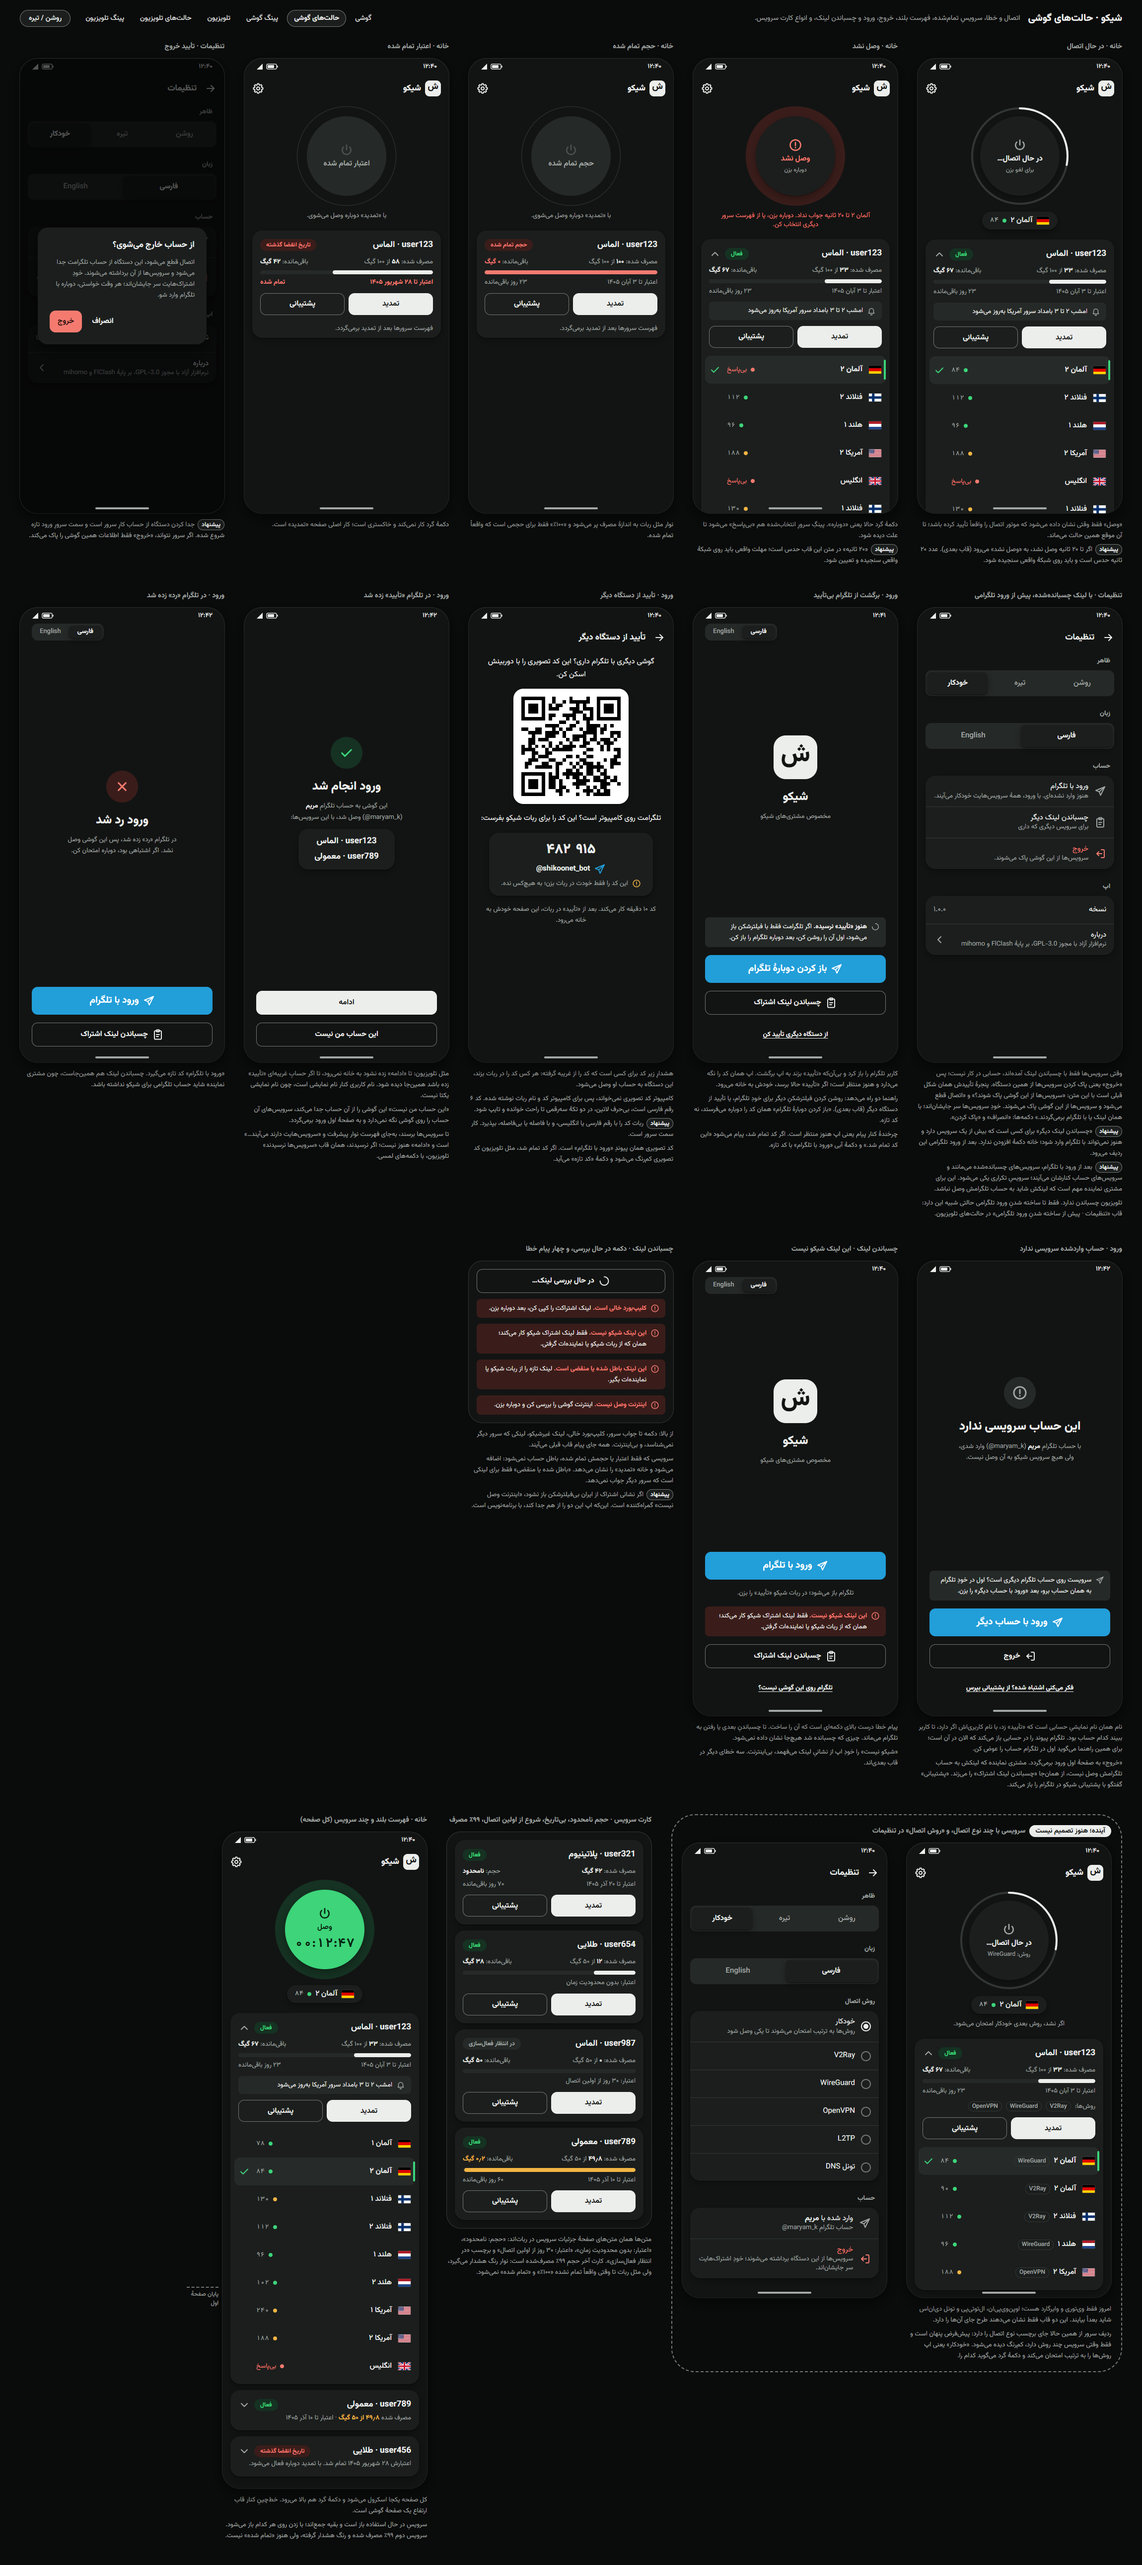
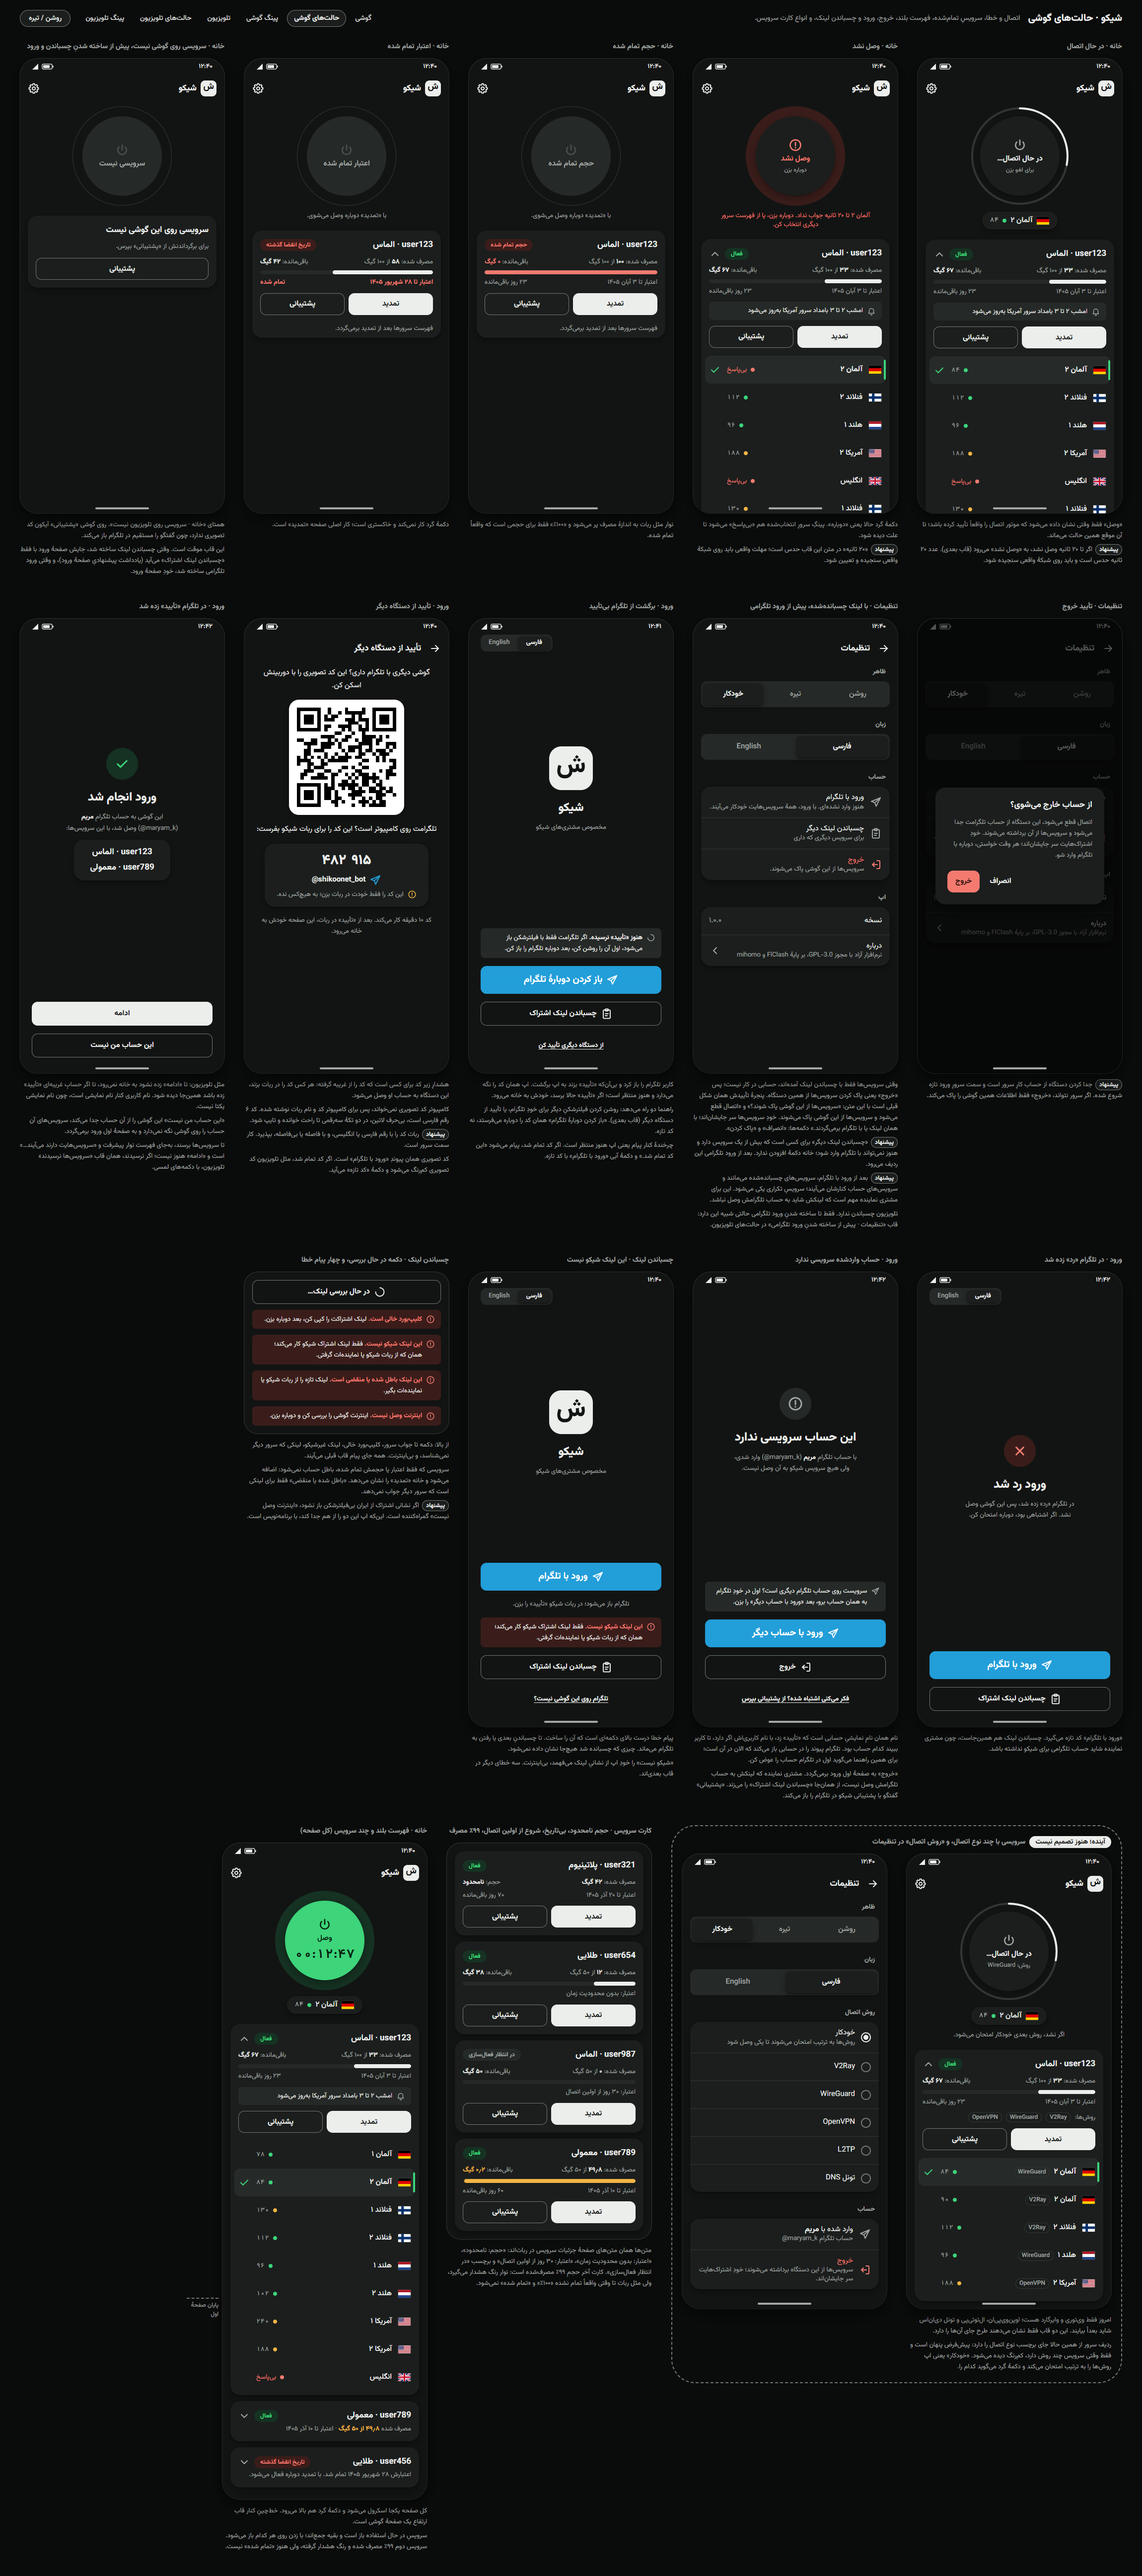
docs(design): draw the phone home with no service and word refusals in English
Round nine built the phone's no-service home from the TV text, without
a frame, and its English refusal message still says "VPN".

- New frame phone-home-no-service: the TV frame's counterpart, with a
  plain support button since the phone opens Telegram directly. Its
  note says it gives way to the paste-only sign-in once pasting is
  built, and to the full sign-in after Telegram login.
- design/l10n/connect_states_{fa,en}.arb holds the strings of rounds
  eight and nine: the refused and missing permission window, the
  selected server not answering, and the no-service home. The English
  refusal says "permission to connect", like the Persian.

diff --git a/design/mockups/phone-states.html b/design/mockups/phone-states.html
@@ -216,6 +216,40 @@
     <p class="note">دکمهٔ گرد کار نمیکند و خاکستری است؛ کار اصلی صفحه «تمدید» است.</p>
   </figure>
 
+  <!-- خانه بیسرویس، تا وقتی نه چسباندن ساخته شده نه ورود تلگرامی -->
+  <figure class="shot">
+    <figcaption>خانه · سرویسی روی گوشی نیست، پیش از ساخته شدنِ چسباندن و ورود</figcaption>
+    <div class="phone" data-frame="phone-home-no-service">
+      <div class="statusbar"><span>۱۲:۴۰</span><svg><use href="#sb"/></svg></div>
+      <div class="appbar">
+        <div class="brand"><span class="mark">ش</span><span>شیکو</span></div>
+        <button class="icon-btn" type="button" aria-label="تنظیمات"><svg class="icon"><use href="#i-gear"/></svg></button>
+      </div>
+      <div class="home">
+        <section class="power-zone is-disabled">
+          <div class="power-ring">
+            <div class="power" aria-disabled="true">
+              <svg class="icon"><use href="#i-power"/></svg>
+              <span class="power-label">سرویسی نیست</span>
+            </div>
+          </div>
+        </section>
+        <article class="card svc">
+          <header class="svc-head">
+            <h2 class="svc-name">سرویسی روی این گوشی نیست</h2>
+          </header>
+          <p class="state-msg">برای برگرداندنش از «پشتیبانی» بپرس.</p>
+          <div class="actions">
+            <button class="btn btn-outline" type="button">پشتیبانی</button>
+          </div>
+        </article>
+      </div>
+      <div class="gesture"></div>
+    </div>
+    <p class="note">همتای «خانه · سرویسی روی تلویزیون نیست». روی گوشی «پشتیبانی» آیکون کد تصویری ندارد، چون گفتگو را مستقیم در تلگرام باز میکند.</p>
+    <p class="note">این قاب موقت است. وقتی چسباندن لینک ساخته شد، جایش صفحهٔ ورود با فقط «چسباندن لینک اشتراک» میآید (یادداشت پیشنهادیِ صفحهٔ ورود)، و وقتی ورود تلگرامی ساخته شد، خودِ صفحهٔ ورود.</p>
+  </figure>
+
   <!-- تأیید خروج -->
   <figure class="shot">
     <figcaption>تنظیمات · تأیید خروج</figcaption>
